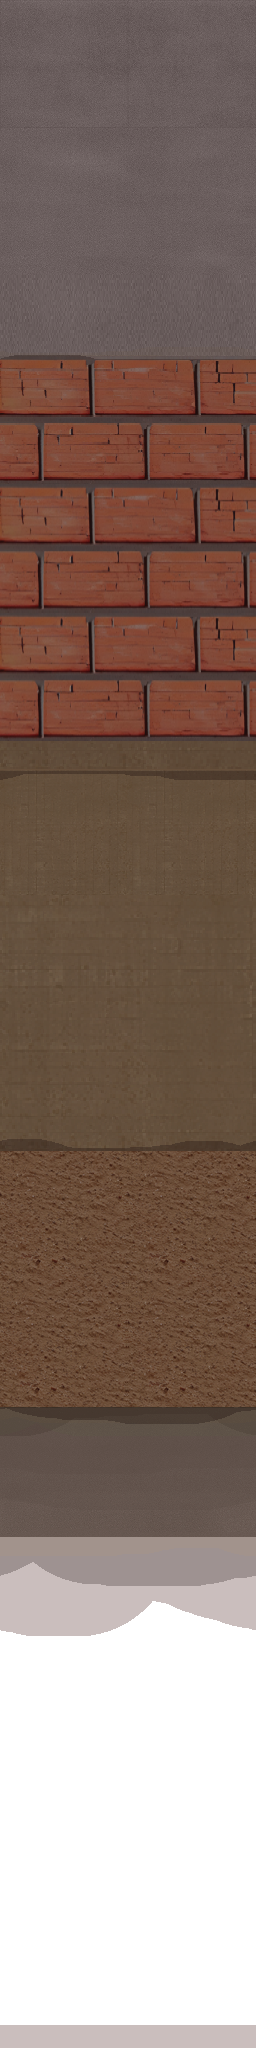
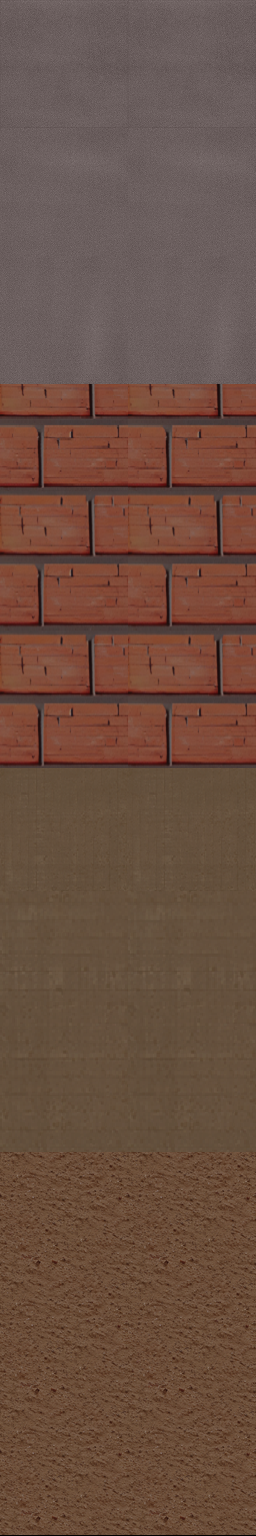
マップチップの生成方式を変更

diff --git a/VoxelTool/BackGroundSub.cpp b/VoxelTool/BackGroundSub.cpp
@@ -664,8 +664,54 @@ namespace BackGround {
 		}
 	}
 
+	// ディレクトリ内のファイル走査
+	static void GetFileNamesInDirectory(const char* pPath, std::vector<WIN32_FIND_DATA>* pData) noexcept {
+		pData->clear();
+		WIN32_FIND_DATA win32fdt;
+		HANDLE hFind = FindFirstFile(pPath, &win32fdt);
+		if (hFind != INVALID_HANDLE_VALUE) {
+			do {
+				if (win32fdt.cFileName[0] != '.') {
+					pData->emplace_back(win32fdt);
+				}
+
+			} while (FindNextFile(hFind, &win32fdt));
+		} // else{ return false; }
+		FindClose(hFind);
+	}
+
 	void		VoxelControl::Load(void) noexcept {
+		{
+			std::vector<WIN32_FIND_DATA> data_t;
+			GetFileNamesInDirectory("data/MapChip/*", &data_t);
+			std::vector<std::string> dataStr;
+			for (const auto& d : data_t) {
+				std::string p = d.cFileName;
+				if (p.find(".png") != std::string::npos) {
+					dataStr.emplace_back("data/MapChip/" + p);
+				}
+			}
+			int max = static_cast<int>(dataStr.size());
+			int XSize = 128 * 2;
+			int YSize = 128 * 3 * max;
+
+			int Screen = MakeScreen(XSize, YSize, false);
+			SetDrawScreen(Screen);
+			ClearDrawScreen();
+			for (int loop = 0; loop < max; ++loop) {
+				int loadGraph = LoadGraph(dataStr[static_cast<size_t>(loop)].c_str());
+				SetDrawScreen(Screen);
+				DrawGraph(128 * 0, (128 * 3) * loop, loadGraph, false);
+				DrawGraph(128 * 1, (128 * 3) * loop, loadGraph, false);
+			}
+			SaveDrawValidGraphToPNG(Screen, 0, 0, XSize, YSize, "data/tex.png");
+		}
 		this->m_tex = LoadGraph("data/tex.png");
+		{
+			int YSize = 128 * 3;
+			GetGraphSize(this->m_tex, nullptr, &YSize);
+			TexTileV = 1.f / (static_cast<float>(YSize) / 128.f);
+		}
 	}
 	void		VoxelControl::InitStart(void) noexcept {
 		// 全階層の初期化

diff --git a/Project/source/Draw/Voxel.cpp b/Project/source/Draw/Voxel.cpp
@@ -691,7 +691,39 @@ namespace BG {
 	}
 
 	void		VoxelControl::Load(void) noexcept {
+#if defined(_DEBUG)
+		{
+			std::vector<WIN32_FIND_DATA> data_t;
+			Util::GetFileNamesInDirectory("data/MapChip/*", &data_t);
+			std::vector<std::string> dataStr;
+			for (const auto& d : data_t) {
+				std::string p = d.cFileName;
+				if (p.find(".png") != std::string::npos) {
+					dataStr.emplace_back("data/MapChip/" + p);
+				}
+			}
+			int max = static_cast<int>(dataStr.size());
+			int XSize = 128 * 2;
+			int YSize = 128 * 3 * max;
+
+			Draw::ScreenHandle Screen;
+			Screen.Make(XSize, YSize, false);
+			Screen.SetDraw_Screen(true);
+			for (int loop = 0; loop < max; ++loop) {
+				Draw::GraphHandle Graph; Graph.Load(dataStr[static_cast<size_t>(loop)]);
+				Screen.SetDraw_Screen(false);
+				Graph.DrawGraph(128 * 0, (128 * 3) * loop, false);
+				Graph.DrawGraph(128 * 1, (128 * 3) * loop, false);
+			}
+			SaveDrawValidGraphToPNG(Screen.get(), 0, 0, XSize, YSize, "data/tex.png");
+		}
+#endif
 		this->m_tex.Load("data/tex.png");
+		{
+			int YSize = 128 * 3;
+			this->m_tex.GetSize(nullptr, &YSize);
+			TexTileV = 1.f / (static_cast<float>(YSize) / 128.f);
+		}
 	}
 	void		VoxelControl::InitStart(void) noexcept {
 		// 全階層の初期化

diff --git a/Project/source/Util/Util.hpp b/Project/source/Util/Util.hpp
@@ -386,4 +386,20 @@ namespace Util {
 		}
 		DxLib::DrawPolygonIndexed2D(Vertex.data(), static_cast<int>(Vertex.size()), Index.data(), static_cast<int>(Index.size()) / 3, GrHandle, TransFlag ? TRUE : FALSE);
 	}
+
+	// ディレクトリ内のファイル走査
+	static void GetFileNamesInDirectory(const char* pPath, std::vector<WIN32_FIND_DATA>* pData) noexcept {
+		pData->clear();
+		WIN32_FIND_DATA win32fdt;
+		HANDLE hFind = FindFirstFile(pPath, &win32fdt);
+		if (hFind != INVALID_HANDLE_VALUE) {
+			do {
+				if (win32fdt.cFileName[0] != '.') {
+					pData->emplace_back(win32fdt);
+				}
+
+			} while (FindNextFile(hFind, &win32fdt));
+		} // else{ return false; }
+		FindClose(hFind);
+	}
 }

diff --git a/Project/source/Draw/Voxel.hpp b/Project/source/Draw/Voxel.hpp
@@ -267,7 +267,7 @@ namespace BG {
 	static constexpr int ReferenceCell = 0;// 基準になるボクセルタイルリストID
 	// テクスチャタイリングする際のUV分割
 	static constexpr float TexTileU = 1.0f / 2.0f;
-	static constexpr float TexTileV = 1.0f / 16.0f;
+	static float TexTileV = 1.0f / 16.0f;
 
 	// ボクセル描画、コリジョン生成クラス
 	class VoxelControl {

diff --git a/Project/source/Scene/MainScene.hpp b/Project/source/Scene/MainScene.hpp
@@ -42,7 +42,7 @@ protected:
 		BackGround::Instance()->Init();
 		this->m_Character.Init();
 
-		Util::VECTOR3D LightVec = Util::VECTOR3D::vget(-0.1f, -1.f, 0.1f).normalized();
+		Util::VECTOR3D LightVec = Util::VECTOR3D::vget(-0.3f, -0.7f, 0.3f).normalized();
 
 		auto* PostPassParts = Draw::PostPassEffect::Instance();
 		PostPassParts->SetShadowScale(0.5f);

diff --git a/VoxelTool/BackGroundSub.hpp b/VoxelTool/BackGroundSub.hpp
@@ -268,7 +268,7 @@ namespace BackGround {
 	static constexpr int ReferenceCell = 0;// 基準になるボクセルタイルリストID
 	// テクスチャタイリングする際のUV分割
 	static constexpr float TexTileU = 1.0f / 2.0f;
-	static constexpr float TexTileV = 1.0f / 16.0f;
+	static float TexTileV = 1.0f / 16.0f;
 
 
 	typedef int MV1_HANDLE;
